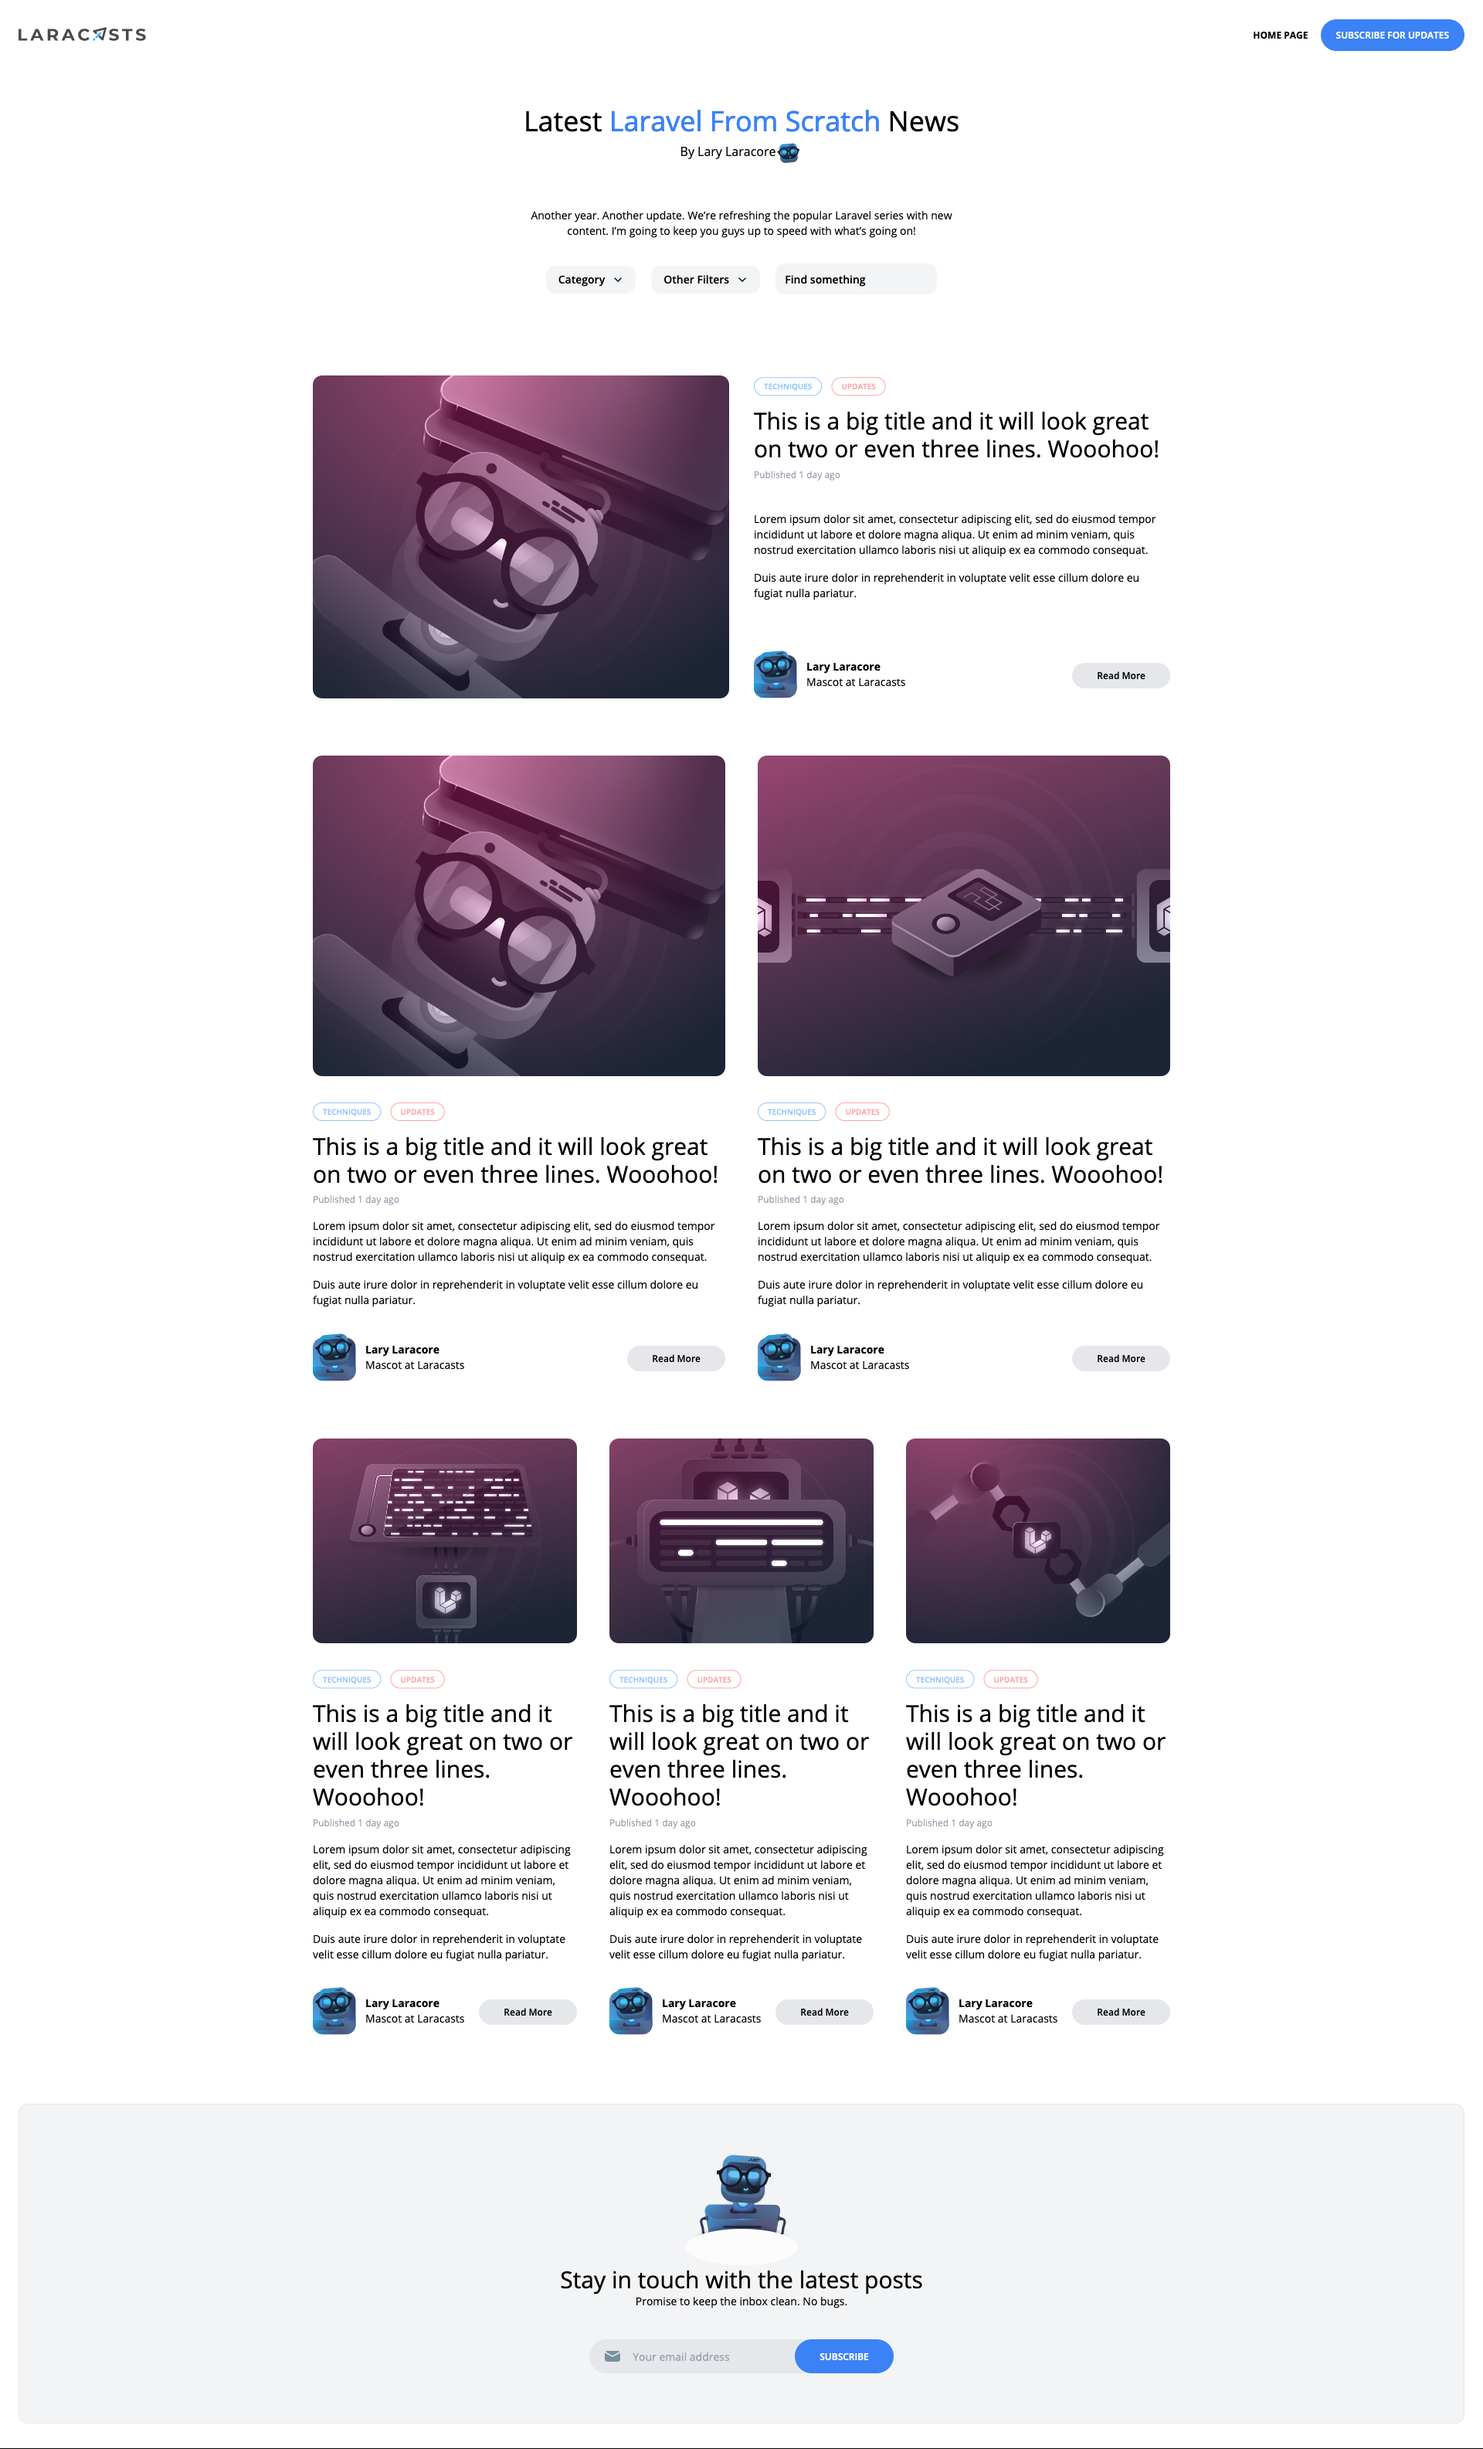
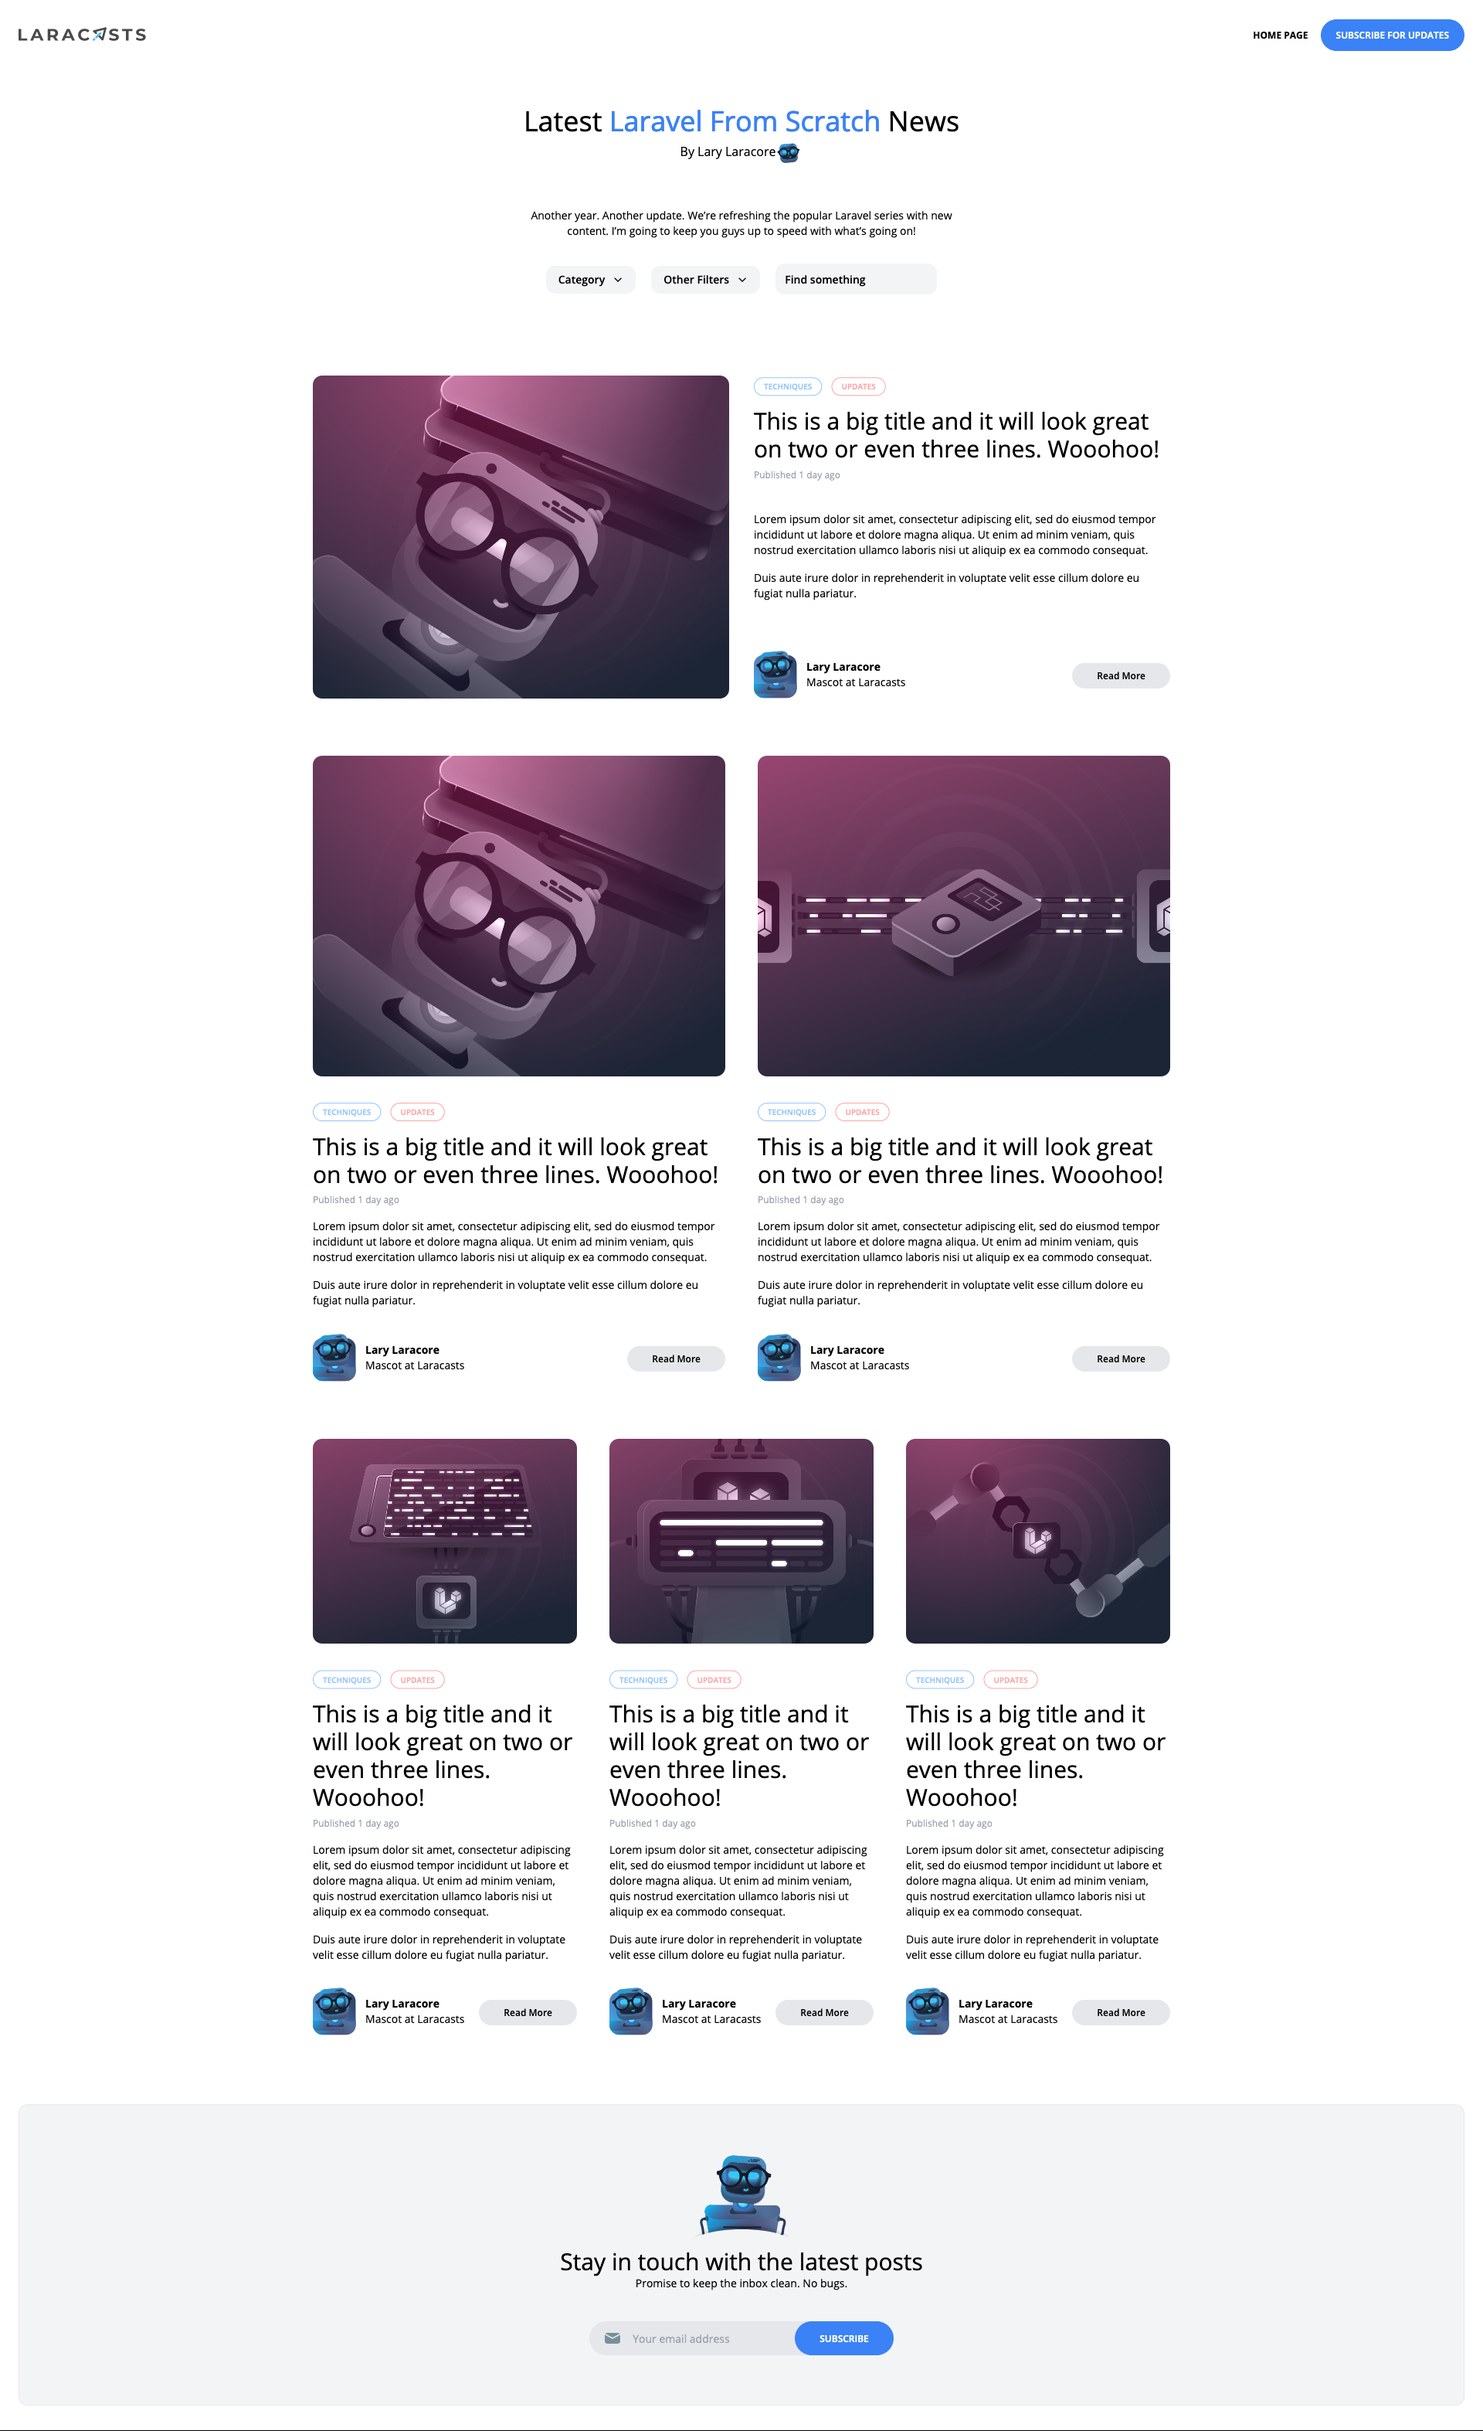
Fix footer SVG transparency

diff --git a/index.html b/index.html
@@ -463,7 +463,7 @@
         </main>
 
         <footer class="bg-gray-100 border border-black border-opacity-5 rounded-xl text-center py-16 px-10 mt-16">
-            <img src="./images/lary-newsletter-icon.png" alt="" class="mx-auto" style="width: 145px;">
+            <img src="./images/lary-newsletter-icon.svg" alt="" class="mx-auto -mb-6" style="width: 145px;">
             <h5 class="text-3xl">Stay in touch with the latest posts</h5>
             <p class="text-sm">Promise to keep the inbox clean. No bugs.</p>
 

diff --git a/post.html b/post.html
@@ -115,7 +115,7 @@
         </main>
 
         <footer class="bg-gray-100 border border-black border-opacity-5 rounded-xl text-center py-16 px-10 mt-16">
-            <img src="./images/lary-newsletter-icon.png" alt="" class="mx-auto" style="width: 145px;">
+            <img src="./images/lary-newsletter-icon.svg" alt="" class="mx-auto -mb-6" style="width: 145px;">
             <h5 class="text-3xl">Stay in touch with the latest posts</h5>
             <p class="text-sm">Promise to keep the inbox clean. No bugs.</p>
 
